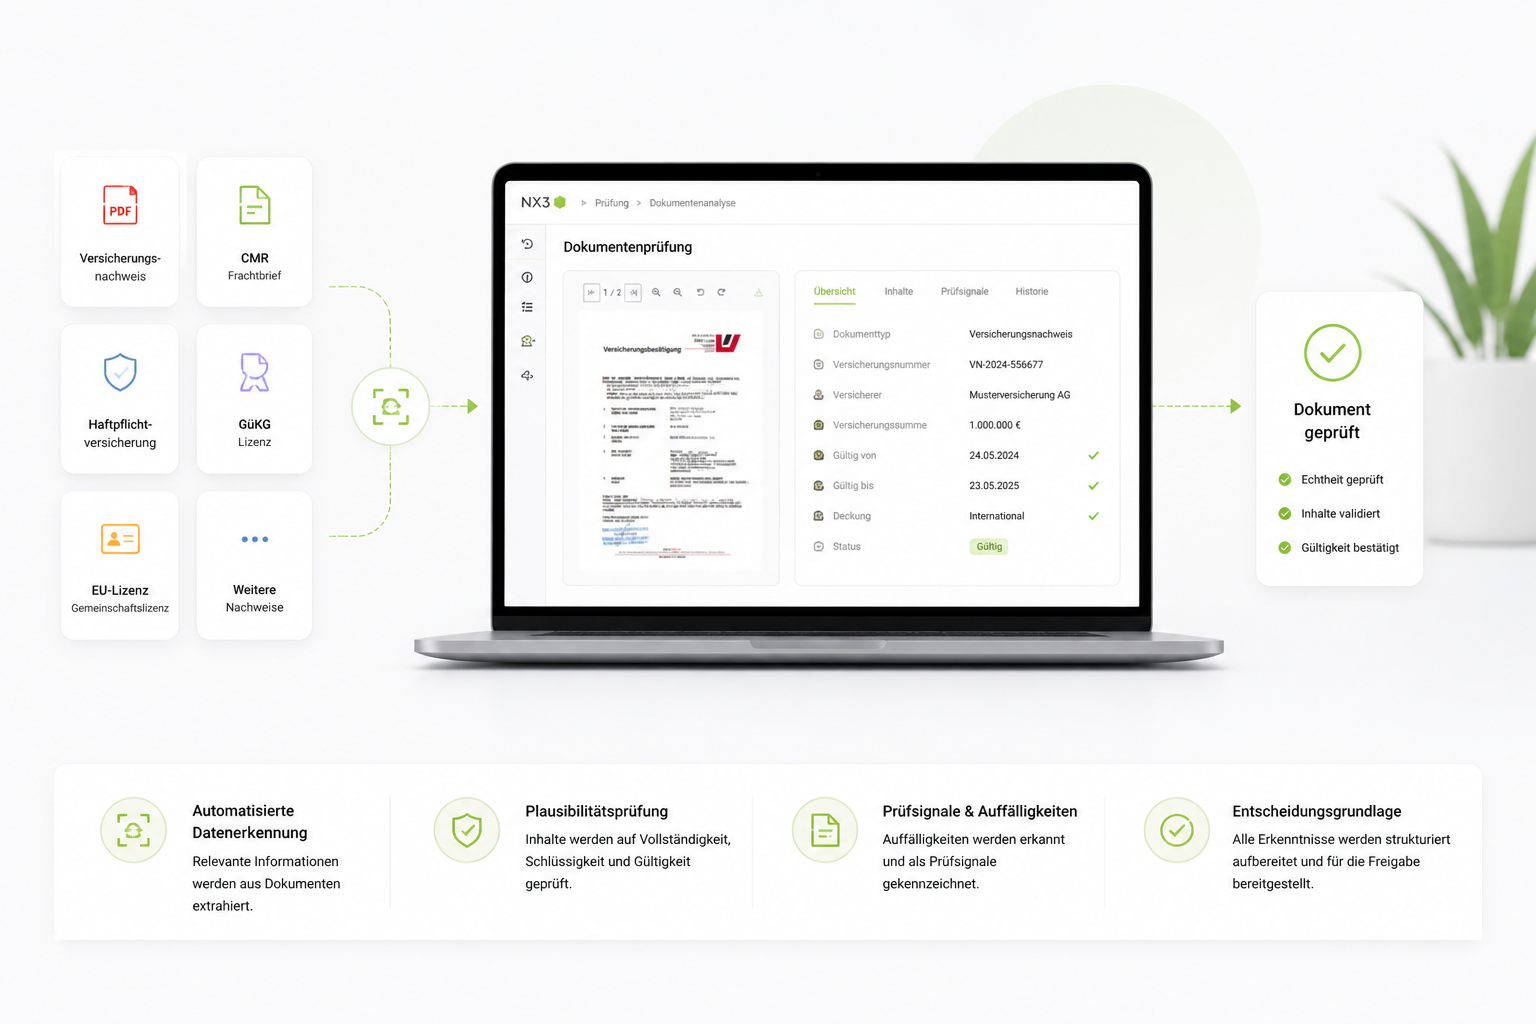
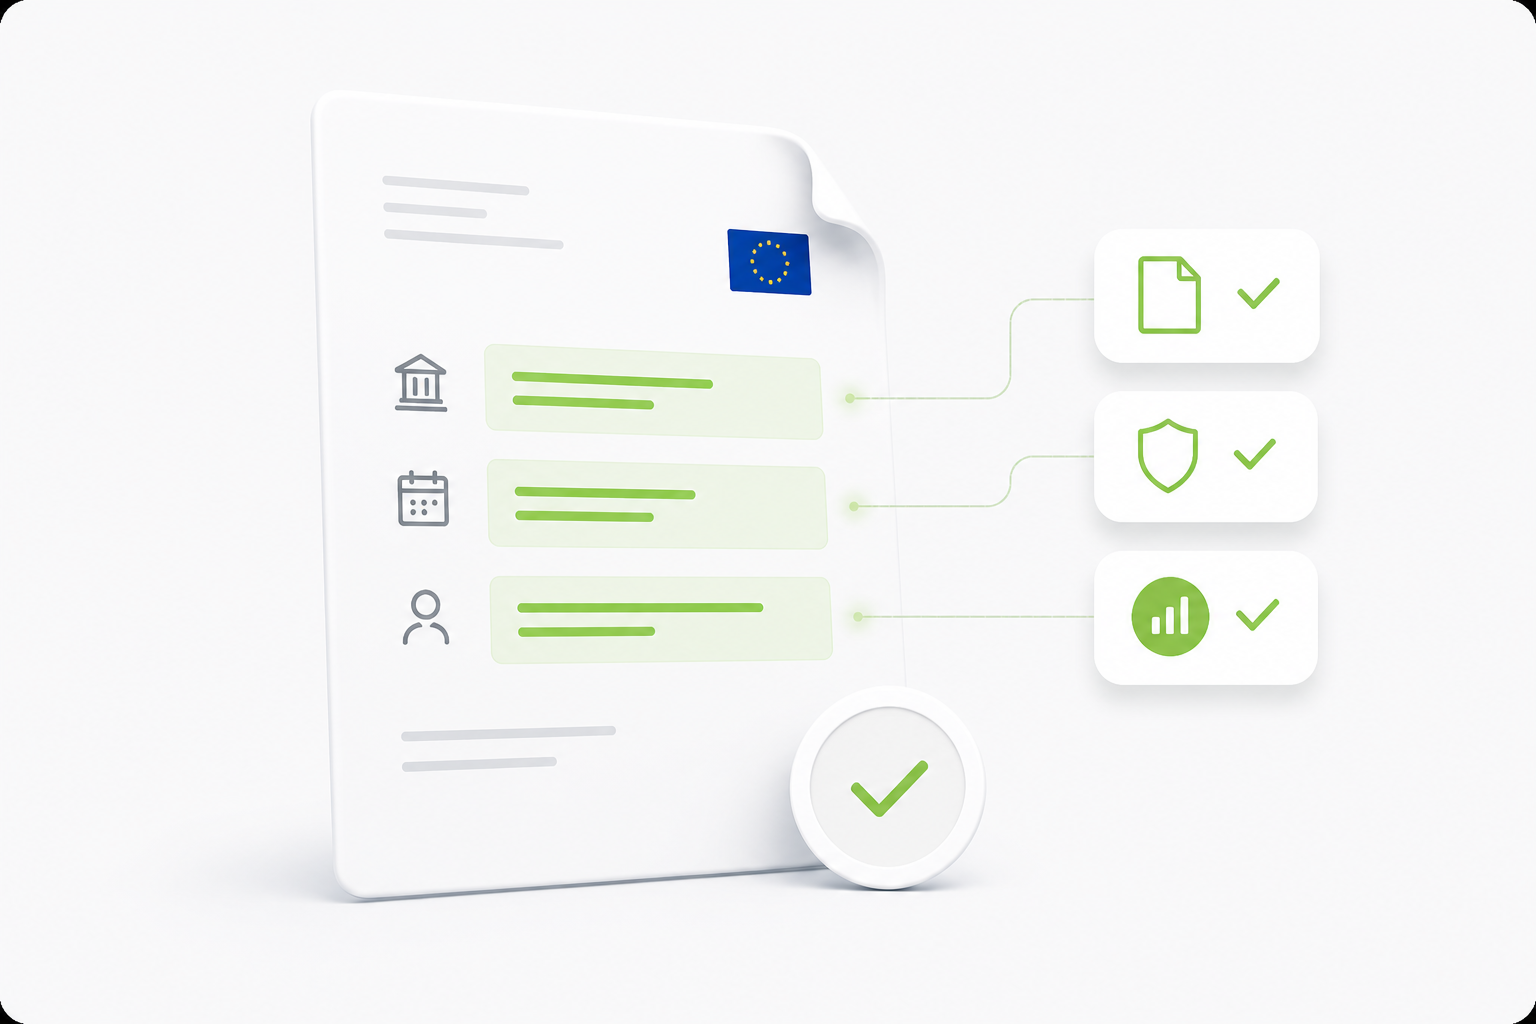
Update assets and cookie styles

diff --git a/cookie-consent.css b/cookie-consent.css
@@ -56,6 +56,7 @@ body.cmplz-banner-active {
   border-radius: var(--cmplz-radius);
   box-shadow: var(--cmplz-shadow);
   color: var(--cmplz-text);
+  font-family: "Inter", sans-serif;
   transform: translate(-50%, -46%);
   opacity: 0;
   pointer-events: none;
@@ -353,6 +354,7 @@ body.cmplz-banner-active {
   background: rgba(255, 255, 255, 0.96);
   box-shadow: 0 12px 30px rgba(19, 24, 16, 0.18);
   color: var(--cmplz-text);
+  font-family: "Inter", sans-serif;
   font-weight: 700;
   transform: translateY(calc(100% - 13px));
   transition: transform 180ms ease;